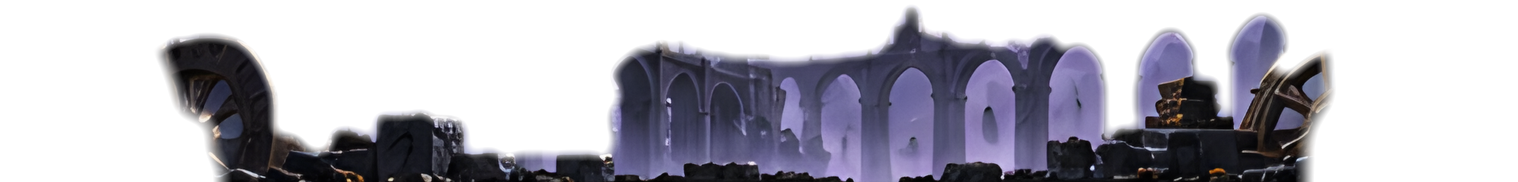
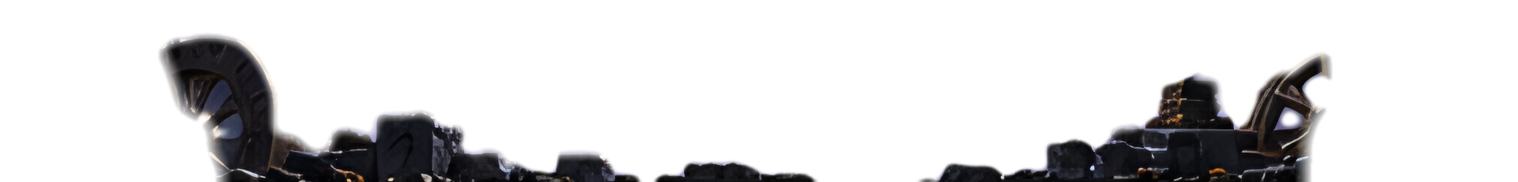
Cenário (VFX.md falta 2): limpeza da faixa near — tira névoa do fundo (arcadas/torres claras no Silêncio, Centro, Corrente), fios e pedaços soltos; pipeline chama a limpeza

diff --git a/tools/scenery/near_cleanup.py b/tools/scenery/near_cleanup.py
@@ -1,0 +1,109 @@
+"""Limpeza da faixa NEAR (VFX.md, falta 2). O GrabCut da build_backgrounds.py
+às vezes leva para a near pedaços do FUNDO enevoado (arcadas e torres claras no
+Silêncio e no Centro, manchas no Corrente) e fios finos soltos. Na near (que anda
+a 0,32 da câmera) esses pedaços viram blocos chapados de borda reta.
+
+Regras (por pixel, suaves):
+  1. "névoa": região grande e clara (luminância borrada σ=6 acima de T) sai da
+     máscara — o entulho de verdade é escuro; brilho pequeno (vela, aresta) sobrevive
+     porque o borrão o dilui.
+  2. fios: abertura morfológica (elipse 5×5) tira traços de 1–4 px.
+  3. pedaço solto: componente que não encosta na base da faixa sai inteiro.
+  4. borda: o alfa ganha um desfoque leve (σ=1) e nunca cresce além do original.
+O far já tem esse conteúdo por baixo, então o que sai da near continua visível
+lá atrás, no ritmo certo.
+
+Uso: python3 tools/scenery/near_cleanup.py [--only 3,7] [--preview saida.png] [--dry]
+Roda também no fim da build_backgrounds.py (se ela for rodada de novo)."""
+import os
+import sys
+
+import cv2
+import numpy as np
+from PIL import Image
+
+HERE = os.path.dirname(os.path.abspath(__file__))
+BG = os.path.normpath(os.path.join(HERE, '..', '..', 'assets', 'backgrounds'))
+# limiar de "névoa" por Éon (luminância borrada); None = não aplica a regra 1.
+# Espelho (4) tem cacos claros DE VERDADE e a Fome (1) é toda escura.
+BASE = 10   # linhas de baixo que contam como "chão" (regra 4)
+# Caixas apagadas à mão (px da near, x0, y0, x1, y1): sobra de névoa colada num
+# bloco de verdade, que as regras não separam.
+ERASE = {3: [(1020, 0, 1165, 100)]}
+HAZE_T = {0: 0.30, 1: None, 2: 0.26, 3: 0.20, 4: None, 5: 0.30, 6: None, 7: 0.24, 8: 0.30}
+
+
+def smoothstep(e0, e1, x):
+	t = np.clip((x - e0) / (e1 - e0), 0.0, 1.0)
+	return t * t * (3.0 - 2.0 * t)
+
+
+def clean(rgba, eon):
+	a = rgba.astype(np.float32) / 255.0
+	lum = a[..., :3] @ np.array([0.3, 0.59, 0.11], np.float32)
+	al = a[..., 3]
+	keep = np.ones_like(al)
+	t = HAZE_T.get(eon)
+	if t is not None:
+		# borrão PONDERADO pelo alfa (fora da máscara não puxa a média)
+		num = cv2.GaussianBlur(lum * al, (0, 0), 6)
+		den = cv2.GaussianBlur(al, (0, 0), 6) + 1e-4
+		keep *= 1.0 - smoothstep(t, t + 0.08, num / den)
+	for (x0, y0, x1, y1) in ERASE.get(eon, []):
+		keep[y0:y1, x0:x1] = 0.0
+	k = cv2.getStructuringElement(cv2.MORPH_ELLIPSE, (5, 5))
+	opened = cv2.morphologyEx(al, cv2.MORPH_OPEN, k)
+	new = np.minimum(al, opened) * keep
+	# 4. só fica o que ASSENTA no chão: pedaço solto no ar (sobra da névoa, fio)
+	#    que não encosta nas últimas BASE linhas sai inteiro.
+	h = new.shape[0]
+	n, lab = cv2.connectedComponents((new > 0.25).astype(np.uint8), connectivity=8)
+	grounded = np.zeros(n, bool)
+	grounded[np.unique(lab[h - BASE:, :])] = True
+	grounded[0] = False
+	m = grounded[lab].astype(np.uint8)
+	m = cv2.dilate(m, k)                      # conserva a borda macia em volta
+	new *= m.astype(np.float32)
+	new = np.minimum(cv2.GaussianBlur(new, (0, 0), 1.0), al)
+	out = rgba.copy()
+	out[..., 3] = np.clip(new * 255.0 + 0.5, 0, 255).astype(np.uint8)
+	return out
+
+
+def main():
+	args = sys.argv[1:]
+	only = list(range(9))
+	preview = None
+	dry = '--dry' in args
+	if '--only' in args:
+		only = [int(x) for x in args[args.index('--only') + 1].split(',')]
+	if '--preview' in args:
+		preview = args[args.index('--preview') + 1]
+	rows = []
+	for e in only:
+		p = os.path.join(BG, f'eon_{e}_near.png')
+		src = np.asarray(Image.open(p).convert('RGBA'))
+		dst = clean(src, e)
+		before = (src[..., 3] > 127).mean()
+		after = (dst[..., 3] > 127).mean()
+		print(f'eon {e}: cobertura {before:.3f} -> {after:.3f}')
+		if not dry:
+			Image.fromarray(dst).save(p, optimize=True)
+		if preview:
+			for img in (src, dst):
+				im = Image.fromarray(img)
+				bg = Image.new('RGBA', im.size, (255, 0, 255, 255))
+				bg.alpha_composite(im)
+				rows.append(bg.convert('RGB').resize((im.size[0] // 2, im.size[1] // 2)))
+	if preview and rows:
+		w = max(r.size[0] for r in rows)
+		sheet = Image.new('RGB', (w, sum(r.size[1] + 3 for r in rows)), (20, 20, 20))
+		y = 0
+		for r in rows:
+			sheet.paste(r, (0, y))
+			y += r.size[1] + 3
+		sheet.save(preview)
+
+
+if __name__ == '__main__':
+	main()

diff --git a/tools/scenery/build_backgrounds.py b/tools/scenery/build_backgrounds.py
@@ -23,6 +23,8 @@ Uso:  python tools/scenery/build_backgrounds.py [--no-ai] [--only 0,3]
 import os, sys, subprocess, re
 import numpy as np, cv2
 from PIL import Image
+sys.path.insert(0, os.path.dirname(os.path.abspath(__file__)))
+import near_cleanup
 
 ROOT = os.path.abspath(os.path.join(os.path.dirname(__file__), '..', '..'))
 SHEET = os.path.join(ROOT, 'assets', 'painted', 'eons.png')
@@ -164,6 +166,9 @@ def build_eon(i, use_ai):
 	rows = np.where(near.max(1) > 0.01)[0]
 	ny = max(0, int(rows.min()) - 4) if rows.size else fl - 8
 	save_rgba(os.path.join(OUT, f'eon_{i}_near.png'), above[ny:], near[ny:])
+	# limpeza da near (névoa do fundo, fios e pedaços soltos) — near_cleanup.py
+	_np = os.path.join(OUT, f'eon_{i}_near.png')
+	Image.fromarray(near_cleanup.clean(np.asarray(Image.open(_np).convert('RGBA')), i)).save(_np, optimize=True)
 	# FLOOR: o chão pintado (abaixo da linha), inteiro.
 	save_rgb(os.path.join(OUT, f'eon_{i}_floor.png'), img[fl:])
 	# FGCOL: a asa esquerda, quase preta e desfocada (coluna em primeiro plano).
